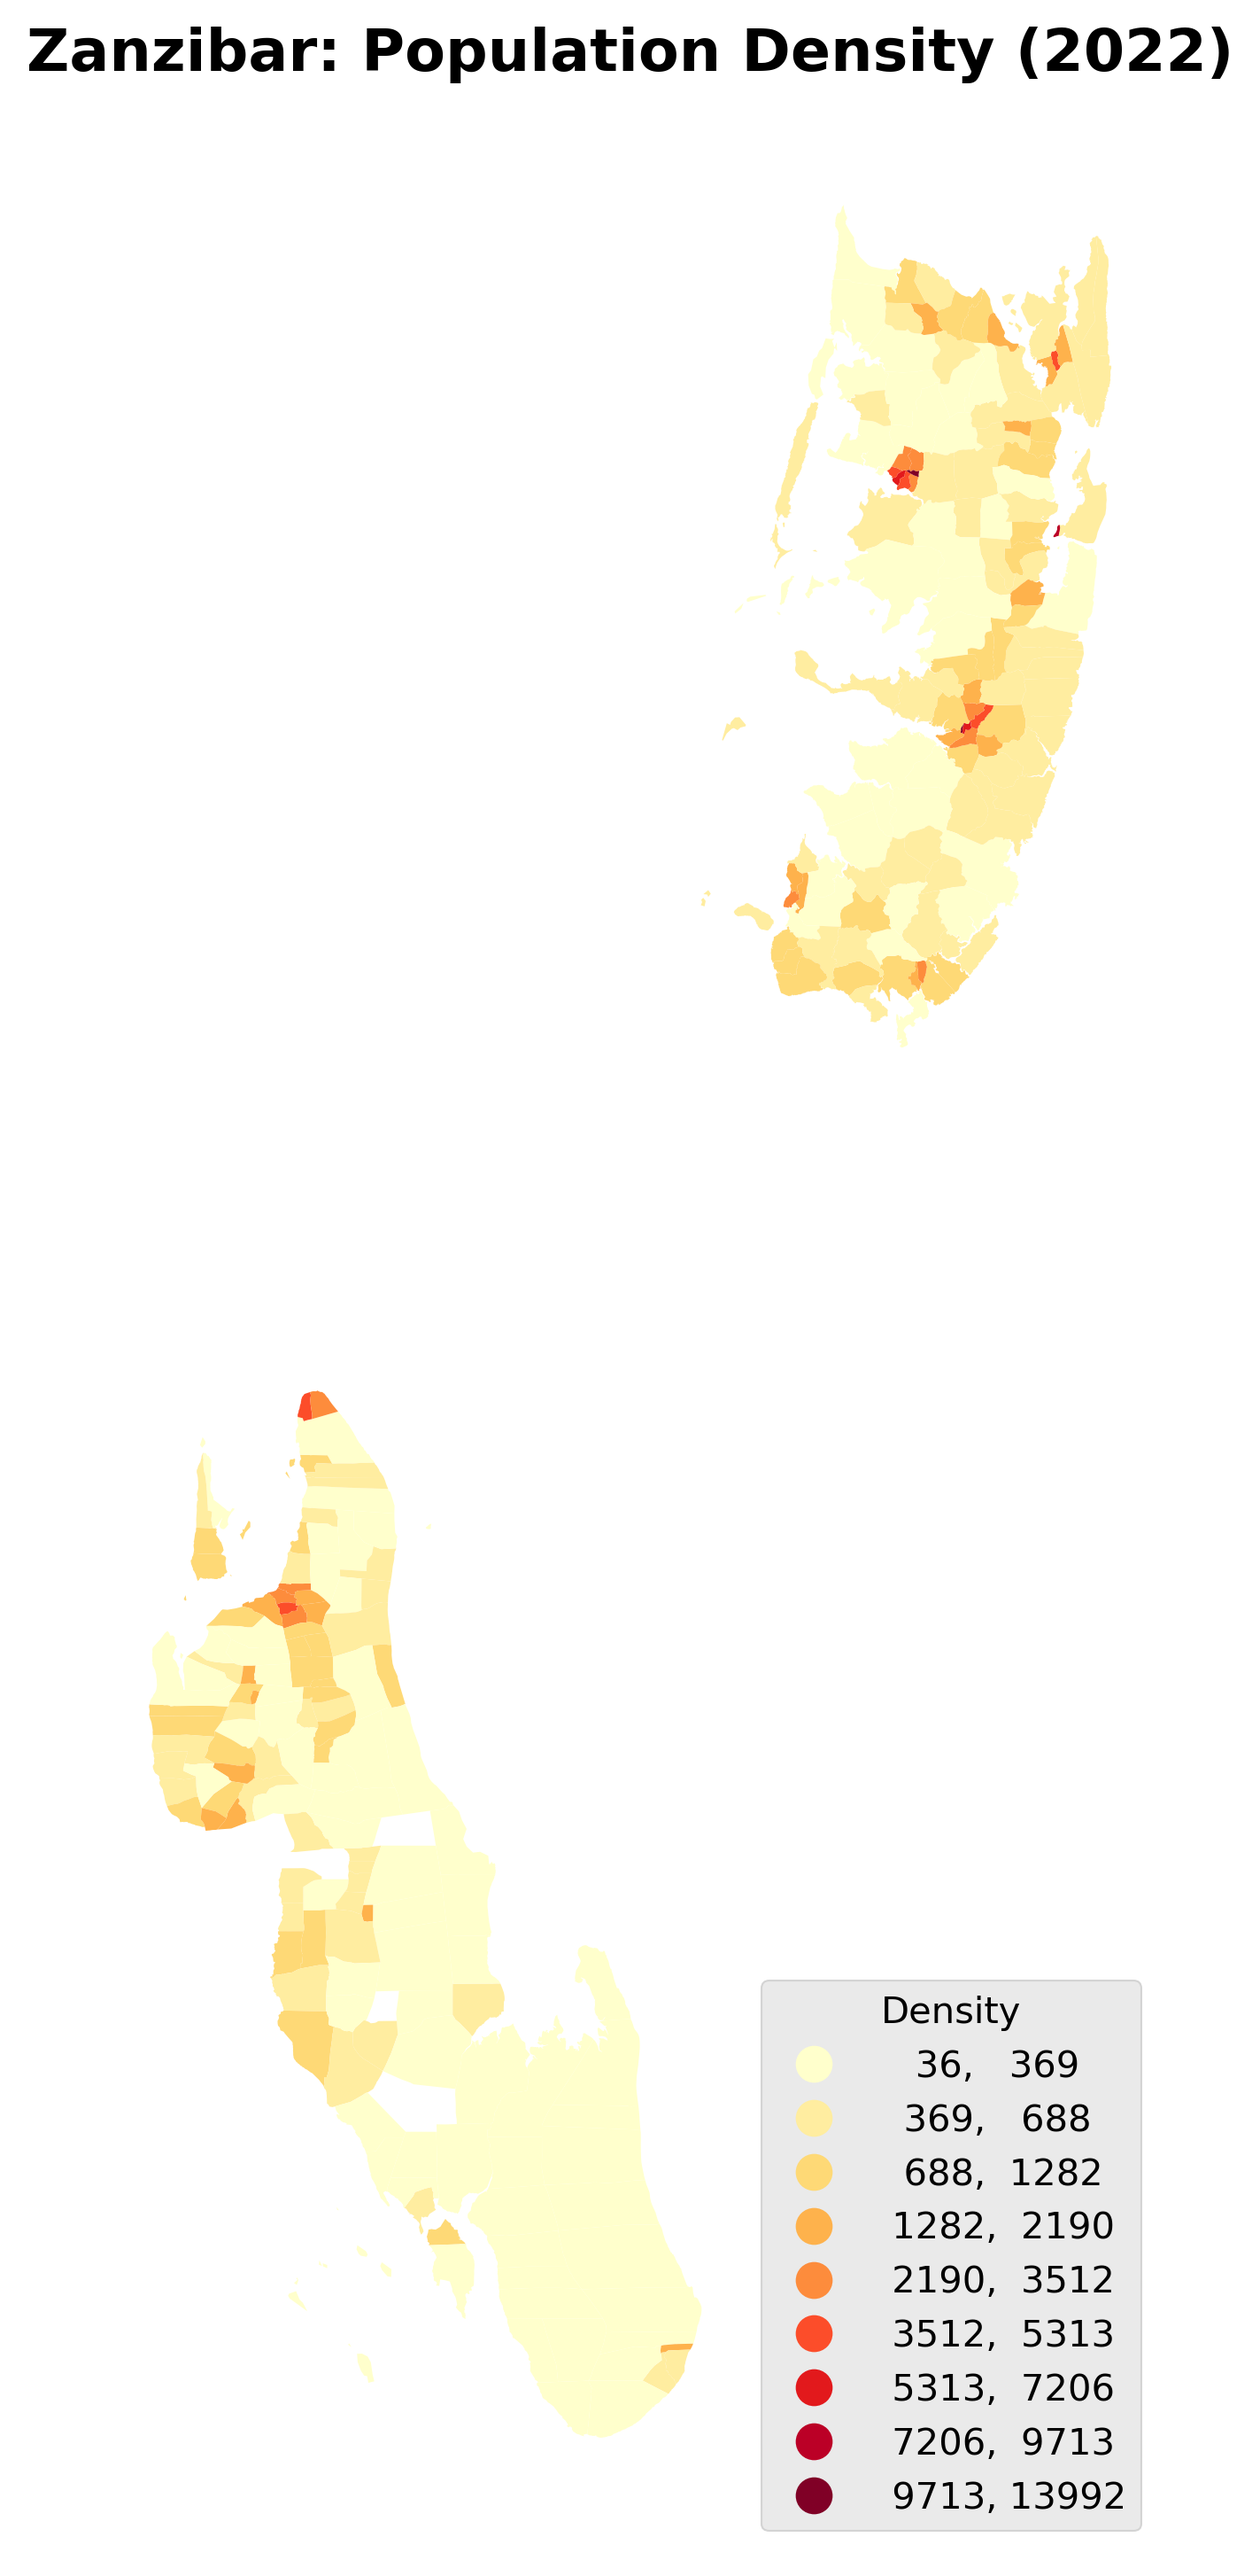
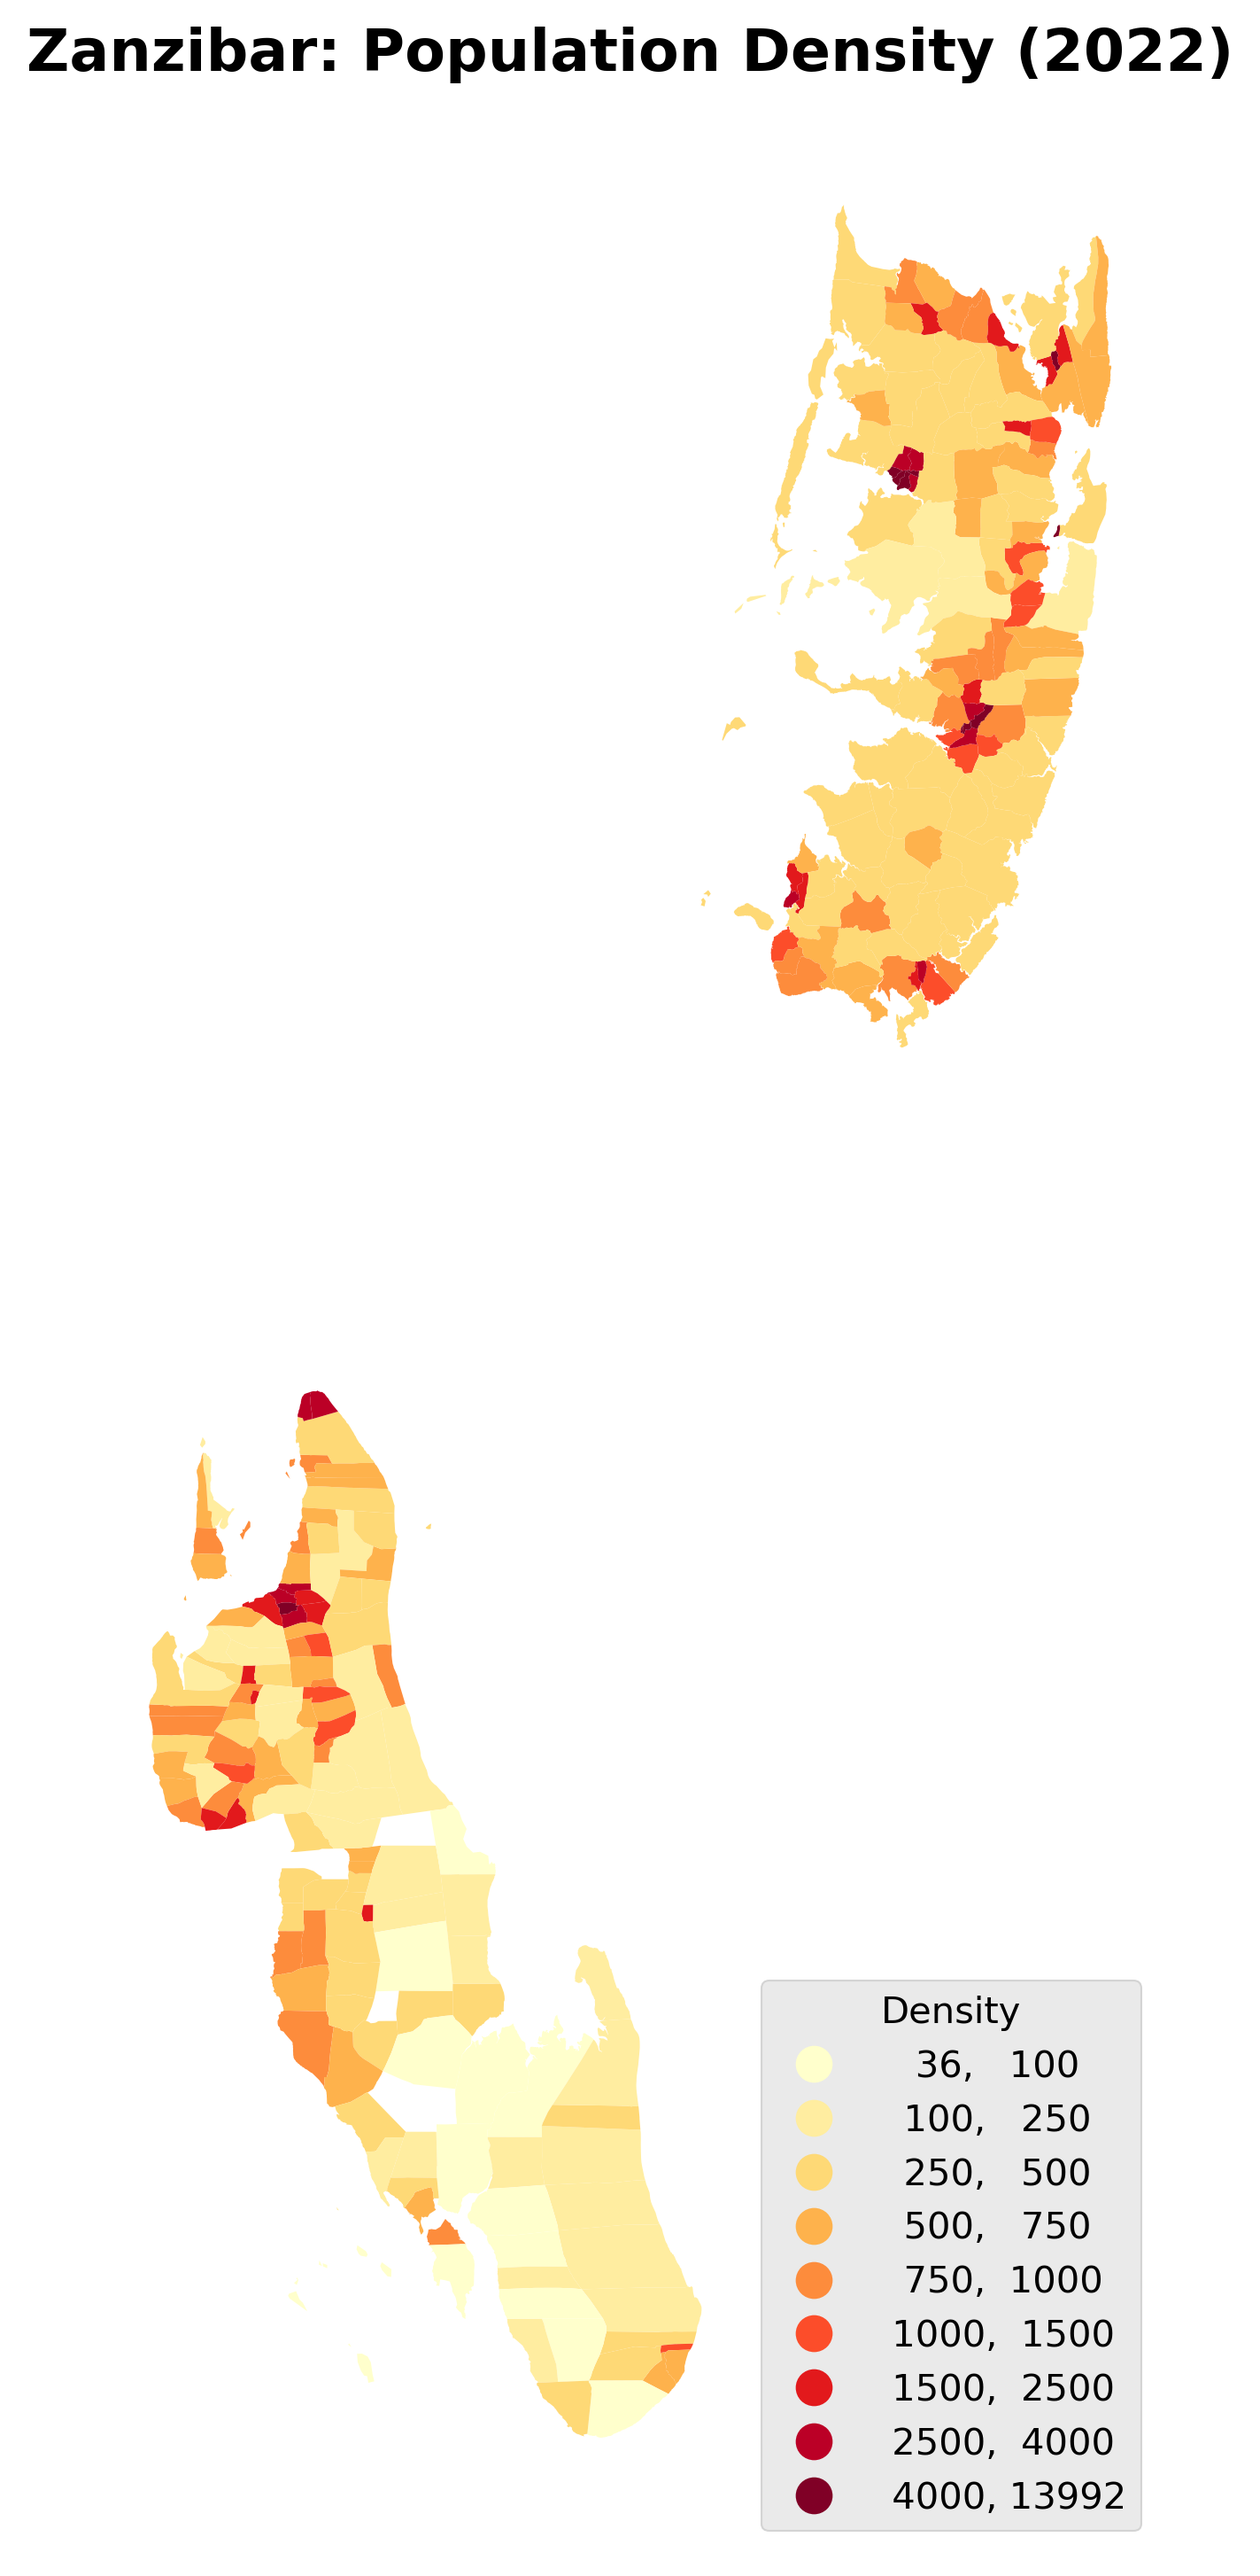
Refine color discretization with context-aware log-breaks (v1.5)

diff --git a/scripts/analysis.py b/scripts/analysis.py
@@ -15,28 +15,23 @@ def perform_analysis(gpkg_path, output_dir):
     if gdf.crs is None:
         gdf.set_crs(epsg=4326, inplace=True)
     
-    # Ensure area and density are present (calculated in finalize_mapping now, but let's be safe)
-    if 'area_sqkm' not in gdf.columns or 'density' not in gdf.columns:
-        print("Recalculating spatial metrics...")
-        gdf_projected = gdf.to_crs(epsg=32737)
-        gdf['area_sqkm'] = gdf_projected.area / 10**6
-        gdf['density'] = gdf['Total_Pop'] / gdf['area_sqkm']
-    
     # Filter for plotting: Wards with population data
     gdf_pop = gdf[gdf['Total_Pop'].notnull()].copy()
     
-    # Clip density at 1.0 for visualization (avoids near-zero values washing out colors)
-    # The user requested 'min at 1'
-    gdf_pop['viz_density'] = gdf_pop['density'].clip(lower=1.0)
+    # Ensure density is positive for Log plots
+    gdf_pop['density_plot'] = gdf_pop['density'].clip(lower=1.0)
     
-    # 1. Main Population Density Map
-    print("Generating main population density map...")
+    # 1. Main Population Density Map - Professional Logarithmic Scale
+    print("Generating main population density map (Log Scale)...")
     fig, ax = plt.subplots(1, 1, figsize=(15, 12))
-    ax.set_facecolor('#fdfdfd') # Clean background
     
-    # Using FisherJenks for better class distribution than pure quantiles
-    gdf_pop.plot(column='viz_density', ax=ax, legend=True, 
-                scheme='FisherJenks', k=9, cmap='YlOrRd',
+    # Using UserDefined logarithmic breaks for a clean, readable legend
+    # This avoids the "everything in one bin" problem of Fisher-Jenks/Quantiles on skewed data
+    log_breaks = [10, 50, 200, 500, 1000, 2500, 5000, 15000]
+    
+    gdf_pop.plot(column='density_plot', ax=ax, legend=True, 
+                scheme='UserDefined', classification_kwds={'bins': log_breaks},
+                cmap='YlOrRd',
                 legend_kwds={'title': "People per Sq Km", 'loc': 'lower left', 'fmt': "{:.0f}"})
     
     ax.set_title("Tanzania 2022 Census: Population Density by Ward", fontsize=18, fontweight='bold', pad=20)
@@ -44,55 +39,53 @@ def perform_analysis(gpkg_path, output_dir):
     plt.savefig(os.path.join(output_dir, "tza_pop_density_map.png"), dpi=300, bbox_inches='tight')
     plt.close()
 
-    # 2. Zoom - Dar es Salaam
+    # 2. Zoom - Dar es Salaam (High Density Focus)
     print("Generating Dar es Salaam zoom map...")
     dar = gdf_pop[gdf_pop['reg_name'].str.contains('Dar es Salaam', case=False, na=False)].copy()
     if not dar.empty:
         fig, ax = plt.subplots(1, 1, figsize=(12, 12))
-        dar.plot(column='viz_density', ax=ax, legend=True, scheme='FisherJenks', k=9, cmap='YlOrRd',
+        # Custom breaks for Dar to show urban variation (500 to 40000)
+        dar_breaks = [1000, 2500, 5000, 10000, 15000, 20000, 25000, 30000]
+        dar.plot(column='density_plot', ax=ax, legend=True, 
+                scheme='UserDefined', classification_kwds={'bins': dar_breaks},
+                cmap='YlOrRd',
                 legend_kwds={'title': "Density", 'loc': 'lower right', 'fmt': "{:.0f}"})
         ax.set_title("Dar es Salaam: Population Density (2022)", fontsize=16, fontweight='bold')
         ax.axis('off')
         plt.savefig(os.path.join(output_dir, "zoom_dar_density.png"), dpi=300, bbox_inches='tight')
         plt.close()
 
-    # 3. Zoom - Zanzibar (Unguja & Pemba)
+    # 3. Zoom - Zanzibar (Medium-High Density Focus)
     print("Generating Zanzibar zoom map...")
     znz = gdf_pop[gdf_pop['reg_name'].str.contains('Unguja|Pemba|Zanzibar', case=False, na=False)].copy()
     if not znz.empty:
         fig, ax = plt.subplots(1, 1, figsize=(12, 12))
-        # Use a more sensitive scale for Zanzibar if needed, but keeping FisherJenks for consistency
-        znz.plot(column='viz_density', ax=ax, legend=True, scheme='FisherJenks', k=9, cmap='YlOrRd',
+        # Custom breaks for Zanzibar (100 to 5000)
+        znz_breaks = [100, 250, 500, 750, 1000, 1500, 2500, 4000]
+        znz.plot(column='density_plot', ax=ax, legend=True, 
+                scheme='UserDefined', classification_kwds={'bins': znz_breaks},
+                cmap='YlOrRd',
                 legend_kwds={'title': "Density", 'loc': 'lower right', 'fmt': "{:.0f}"})
         ax.set_title("Zanzibar: Population Density (2022)", fontsize=16, fontweight='bold')
         ax.axis('off')
         plt.savefig(os.path.join(output_dir, "zoom_zanzibar_density.png"), dpi=300, bbox_inches='tight')
         plt.close()
 
-    # 4. Modern Histogram (Log x-axis, Linear y-axis)
+    # 4. Modern Histogram (Log x-axis)
     print("Generating modern ward size histogram...")
     fig, ax = plt.subplots(figsize=(10, 6))
-    
-    # Filter out 0 area and apply user request: min at 1
     areas = gdf[gdf['area_sqkm'] >= 1.0]['area_sqkm']
-    
-    # Create log bins starting from 1
     log_bins = np.logspace(np.log10(1.0), np.log10(areas.max()), 50)
-    
     ax.hist(areas, bins=log_bins, color='#3498db', edgecolor='white', alpha=0.8)
     ax.set_xscale('log')
-    ax.set_xlim(left=1.0) # Explicitly set x-axis floor at 1.0
-    
+    ax.set_xlim(left=1.0)
     ax.set_title("Distribution of ward areas in Tanzania (≥ 1 km²)", fontsize=16, fontweight='bold', pad=20)
     ax.set_xlabel("Area (sq km, Log Scale)", fontsize=12)
-    ax.set_ylabel("Frequency (Number of Wards)", fontsize=12)
-    
+    ax.set_ylabel("Frequency", fontsize=12)
     ax.grid(True, which="both", ls="-", alpha=0.2)
-    
     median_val = areas.median()
     ax.axvline(median_val, color='#e74c3c', linestyle='--', label=f'Median: {median_val:.1f} km²')
     ax.legend()
-
     plt.savefig(os.path.join(output_dir, "tza_ward_size_histogram.png"), dpi=300, bbox_inches='tight')
     plt.close()
 
@@ -103,19 +96,9 @@ def perform_analysis(gpkg_path, output_dir):
         f.write("Tanzania 2022 Ward Spatial Statistics\n")
         f.write("======================================\n\n")
         f.write(f"Total polygons analyzed: {len(gdf)}\n")
-        f.write(f"Mean Ward Area: {gdf['area_sqkm'].mean():.2f} sq km\n")
-        f.write(f"Median Ward Area: {gdf['area_sqkm'].median():.2f} sq km\n")
         f.write(f"Total Land Area (mapped): {gdf['area_sqkm'].sum():.2f} sq km\n\n")
-        
         f.write("Population Density Statistics (for matched wards):\n")
         f.write(gdf_pop['density'].describe().to_string())
-        
-        max_row = gdf_pop.loc[gdf_pop['density'].idxmax()]
-        f.write("\n\nMaximum Density Ward:\n")
-        f.write(f"Name: {max_row['ward_name']} ({max_row['reg_name']})\n")
-        f.write(f"Population: {max_row['Total_Pop']}\n")
-        f.write(f"Density: {max_row['density']:.2f} people/sq km\n")
-    
     print(f"Stats updated at {stats_path}")
 
 if __name__ == "__main__":
